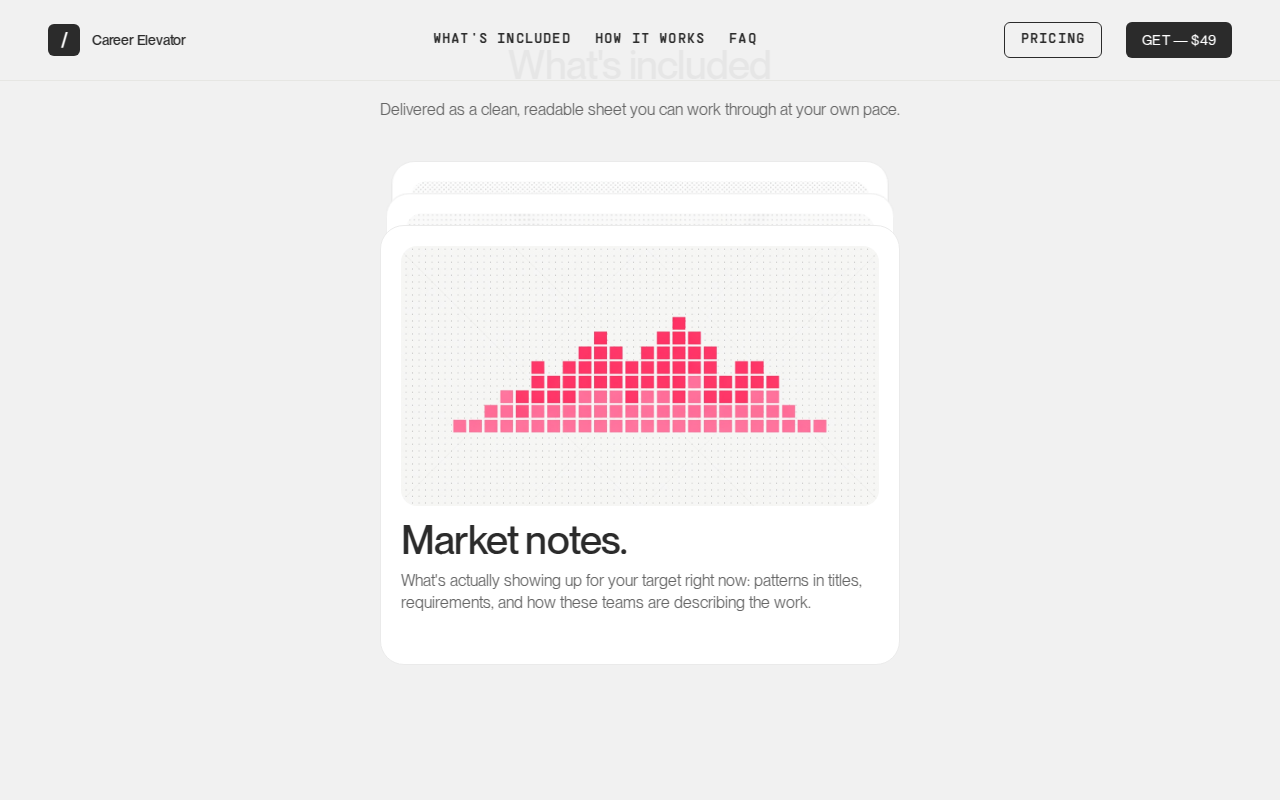
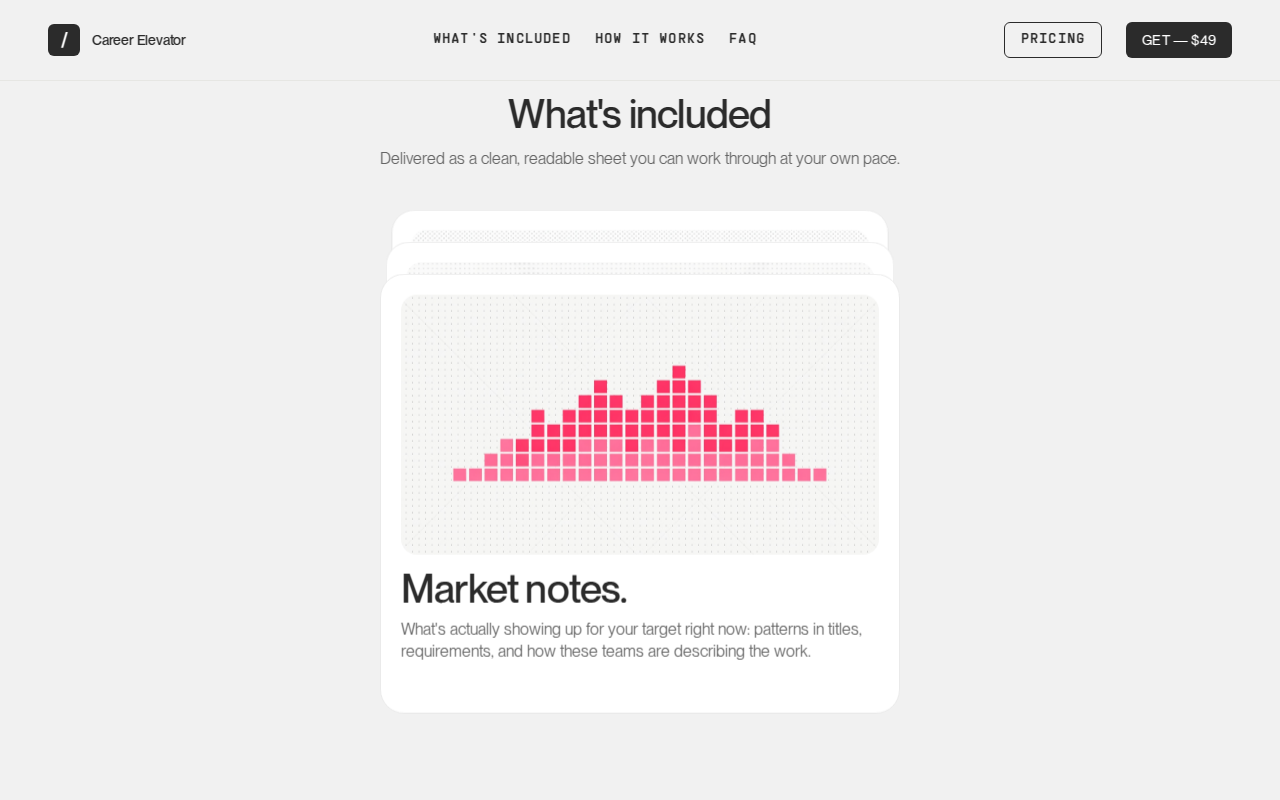
fix(landing): distinct solo beats for What's included cards
Split scroll into four phases: each card pins at y=0 and full scale
before the next enters; prior cards sit as a small peek above, not
overlapping content. Longer scroll track; pack collapse in final 28%.

diff --git a/src/components/landing/WhatsIncludedStack.tsx b/src/components/landing/WhatsIncludedStack.tsx
@@ -40,8 +40,14 @@ const CARDS: IncludedCard[] = [
   },
 ]
 
-/** Scroll distance ≈ 3 viewport steps so each card gets a beat. */
-const SCROLL_STEPS_VH = 3.25
+/** Extra scroll length: ~4 solo beats + pack collapse (incredibles-style pacing). */
+const SCROLL_STEPS_VH = 4.75
+
+/** Normalized scroll segments (must sum to 1). */
+const BEAT_1_END = 0.24
+const BEAT_2_END = 0.48
+const BEAT_3_END = 0.72
+const PACK_START = 0.72
 
 function clamp(value: number, min: number, max: number) {
   return Math.min(max, Math.max(min, value))
@@ -114,30 +120,87 @@ function useScrollProgress(sectionRef: React.RefObject<HTMLElement | null>) {
   return progress
 }
 
+function lerp(a: number, b: number, t: number) {
+  return a + (b - a) * t
+}
+
+function focusBeat(progress: number) {
+  if (progress < BEAT_1_END) return 0
+  if (progress < BEAT_2_END) return 1
+  if (progress < BEAT_3_END) return 2
+  return 3
+}
+
 function getAnimatedCardStyle(
   index: number,
   progress: number,
   offsets: number[],
+  mobile: boolean,
 ): CSSProperties {
   const count = offsets.length
-  const finalY = offsets[index]
-  const enterStart = index / count
-  const enterEnd = (index + 1) / count
-  const enterT = easeOutCubic(segmentProgress(progress, enterStart, enterEnd))
+  const slideDistance = mobile ? 360 : 480
+  const peekStep = mobile ? 18 : 24
+  const packScaleStep = 0.022
 
-  const entryOffset = index === 0 ? 0 : 140
-  const y =
-    index === 0
-      ? finalY
-      : finalY + (1 - enterT) * entryOffset
+  const beat = focusBeat(progress)
 
-  const packT = easeOutCubic(segmentProgress(progress, 0.55, 1))
-  const scale = 1 - (count - 1 - index) * 0.022 * packT
+  if (progress >= PACK_START) {
+    const packT = easeOutCubic(segmentProgress(progress, PACK_START, 1))
+    const packStartY =
+      index === 0 ? -peekStep * 2 : index === 1 ? -peekStep : 0
+    const packStartScale =
+      index === count - 1 ? 1 : 1 - (count - 1 - index) * 0.018
+    const endY = offsets[index]
+    const endScale = 1 - (count - 1 - index) * packScaleStep
+
+    return {
+      zIndex: index + 1,
+      opacity: 1,
+      transform: `translate3d(0, ${lerp(packStartY, endY, packT)}px, 0) scale(${lerp(packStartScale, endScale, packT)})`,
+      transformOrigin: 'top center',
+      willChange: 'transform, opacity',
+    }
+  }
+
+  const beatStart = index === 0 ? 0 : index === 1 ? BEAT_1_END : BEAT_2_END
+  const enterWindow = mobile ? 0.07 : 0.08
+  const enterT = easeOutCubic(
+    segmentProgress(progress, beatStart, beatStart + enterWindow),
+  )
+
+  if (index > beat) {
+    return {
+      zIndex: index + 1,
+      opacity: 0,
+      pointerEvents: 'none',
+      transform: `translate3d(0, ${slideDistance}px, 0) scale(1)`,
+      transformOrigin: 'top center',
+      willChange: 'transform, opacity',
+    }
+  }
+
+  if (index === beat) {
+    const y = index === 0 ? 0 : lerp(slideDistance, 0, enterT)
+    return {
+      zIndex: 30,
+      opacity: index === 0 ? 1 : enterT,
+      transform: `translate3d(0, ${y}px, 0) scale(1)`,
+      transformOrigin: 'top center',
+      willChange: 'transform, opacity',
+    }
+  }
+
+  const depth = beat - index
+  const settleT = easeOutCubic(
+    segmentProgress(progress, beatStart, beatStart + enterWindow * 0.85),
+  )
+  const behindY = -peekStep * depth * settleT
+  const behindScale = 1 - depth * 0.018 * settleT
 
   return {
-    zIndex: index + 1,
-    opacity: index === 0 ? 1 : enterT,
-    transform: `translate3d(0, ${y}px, 0) scale(${scale})`,
+    zIndex: 10 + index,
+    opacity: 0.92,
+    transform: `translate3d(0, ${behindY}px, 0) scale(${behindScale})`,
     transformOrigin: 'top center',
     willChange: 'transform, opacity',
   }
@@ -203,7 +266,7 @@ function CardStack({
       {CARDS.map((card, index) => {
         const style: CSSProperties = reducedMotion
           ? { top: offsets[index], zIndex: index + 1 }
-          : getAnimatedCardStyle(index, progress, offsets)
+          : getAnimatedCardStyle(index, progress, offsets, mobile)
 
         return (
           <IncludedCard
